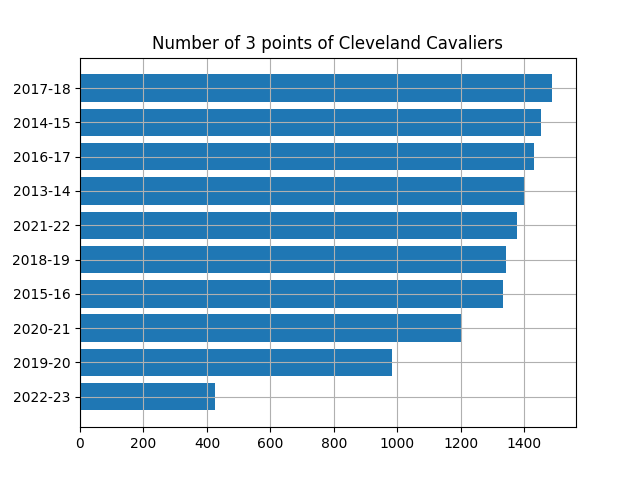
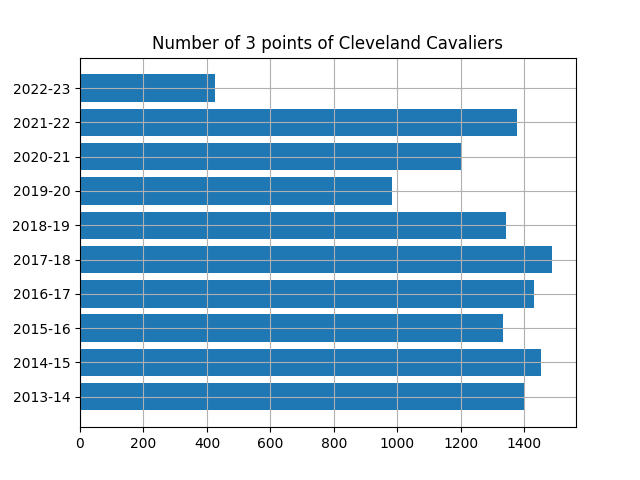
Error correction

diff --git a/Plot/team_plot.py b/Plot/team_plot.py
@@ -22,7 +22,7 @@ def plot_evolution(team):
     # Get the rank of the 10 last years
     for i in range(len(season_list)-10, len(season_list)):
         season_list.append(rows_list[i][3])
-        rank_list.append(rows_list[i][9])
+        rank_list.append(int(rows_list[i][9]))
 
     # Plot evolution plot
     plt.figure()
@@ -44,25 +44,15 @@ def plot_histogram(team) :
         fg3_list.append(int(rows_list[i][21]))
         season_list.append(rows_list[i][3])
 
-    # From list to dict
-    fg2_dict = {}
-    fg3_dict = {}
-    for i in range(len(season_list)):
-        fg2_dict[season_list[i]] = fg2_list[i]
-    fg2_dict = dict(sorted(fg2_dict.items(), key=lambda item: int(item[1])))
-    for i in range(len(season_list)):
-        fg3_dict[season_list[i]] = fg3_list[i]
-    fg3_dict = dict(sorted(fg3_dict.items(), key=lambda item: int(item[1])))
-
     # Plot bar plot
     plt.figure()
-    plt.barh(list(fg2_dict.keys()), list(fg2_dict.values()))
+    plt.barh(season_list, fg2_list)
     plt.grid(True)
     plt.title("Number of 2 points of " + team)
     plt.savefig("team_plot_images/" + team + " number of 2 points lends.png") # Save image in png
 
     plt.figure()
-    plt.barh(list(fg3_dict.keys()), list(fg3_dict.values()))
+    plt.barh(season_list, fg3_list)
     plt.grid(True)
     plt.title("Number of 3 points of " + team)
     plt.savefig("team_plot_images/" + team + " number of 3 points lends.png")
